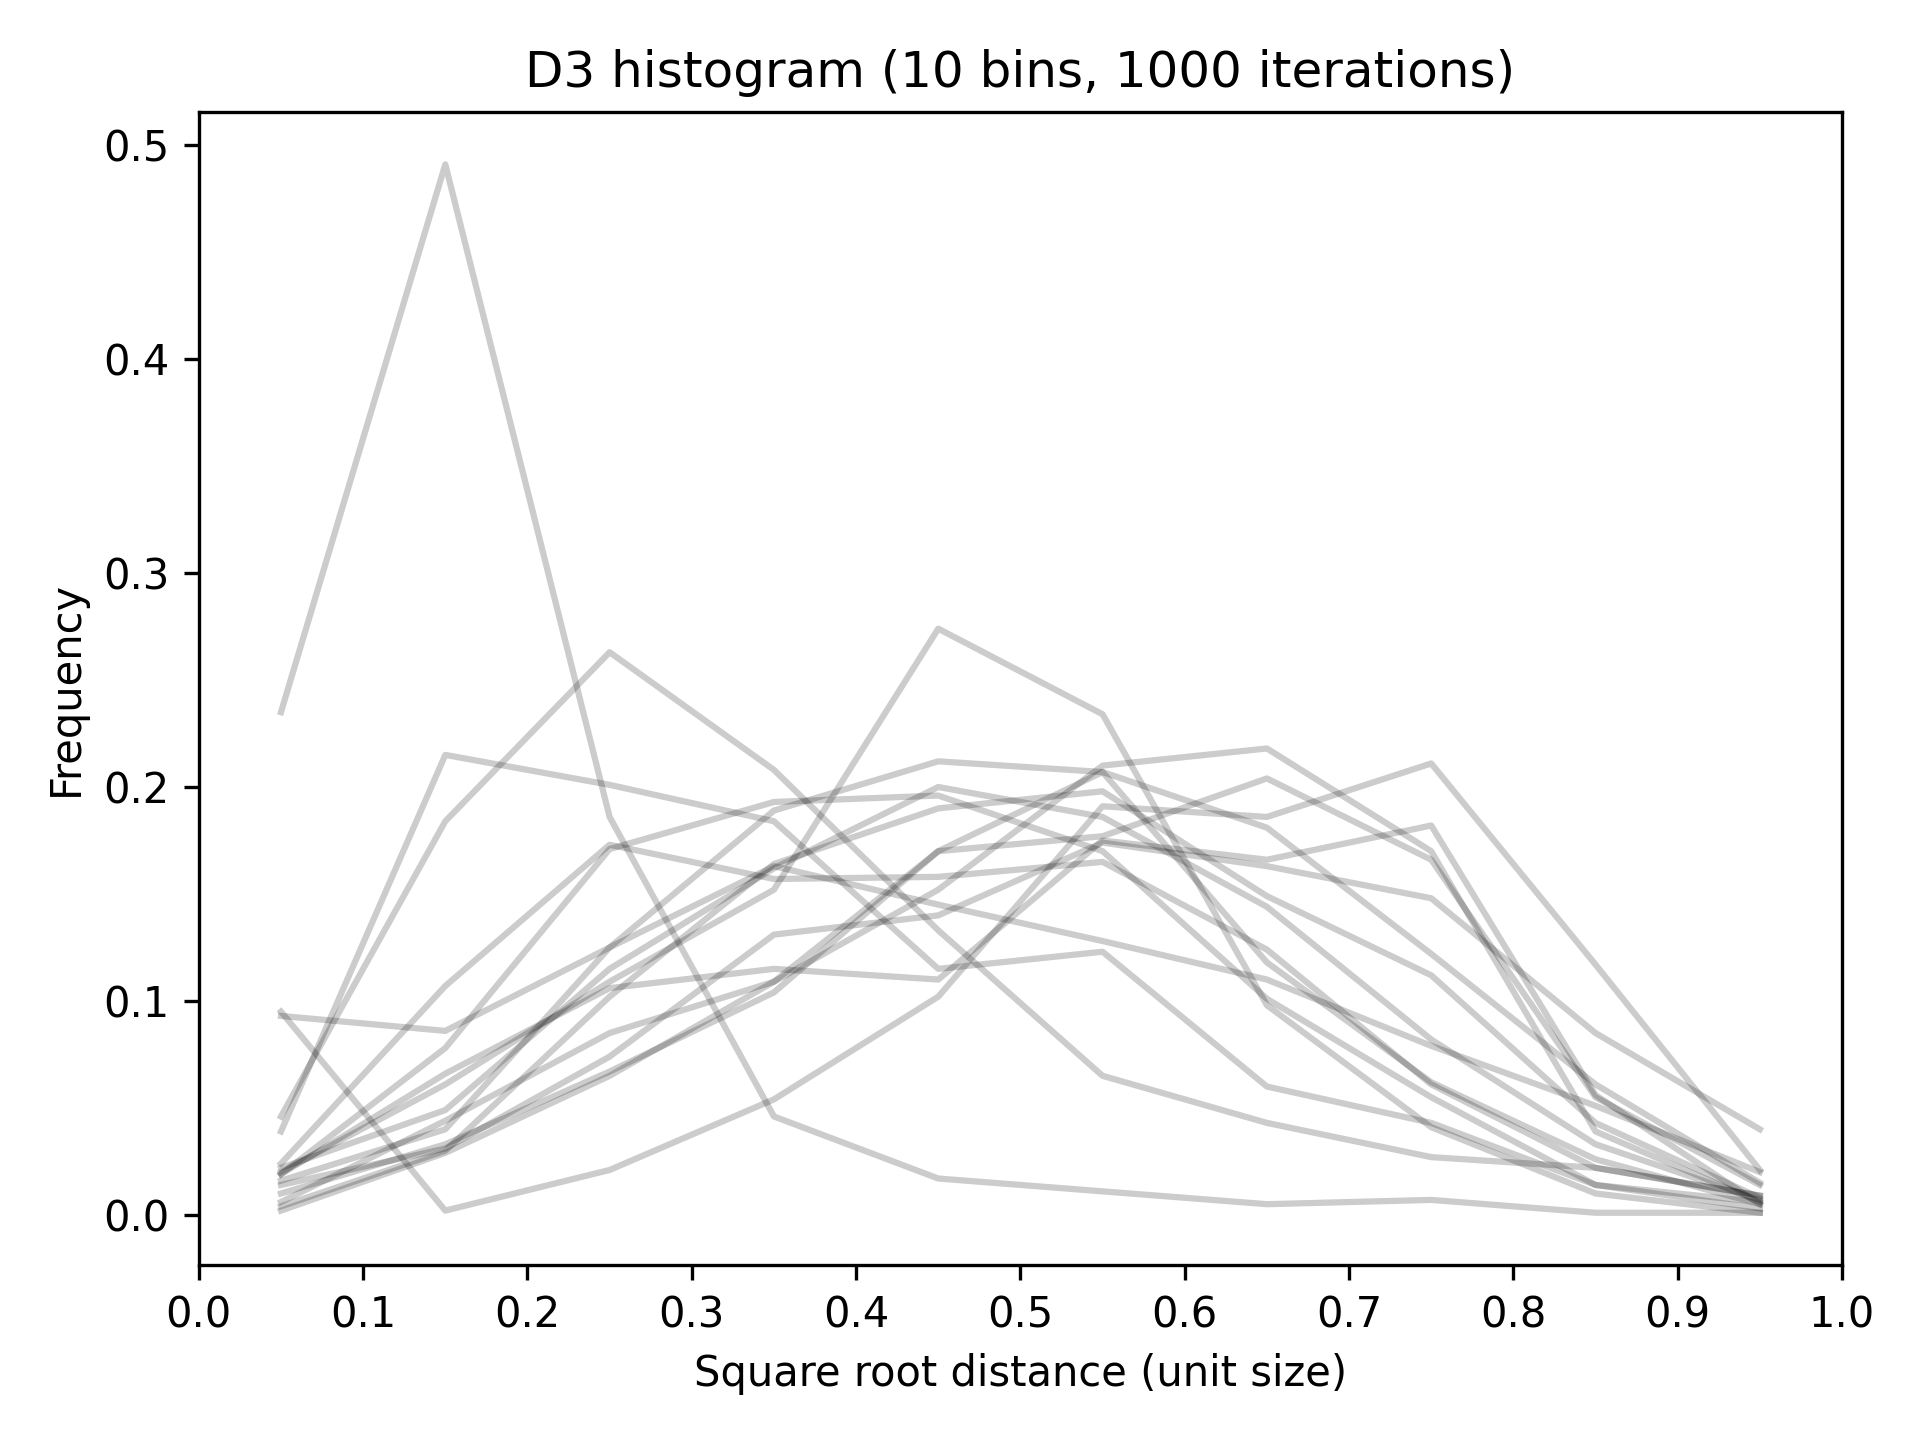
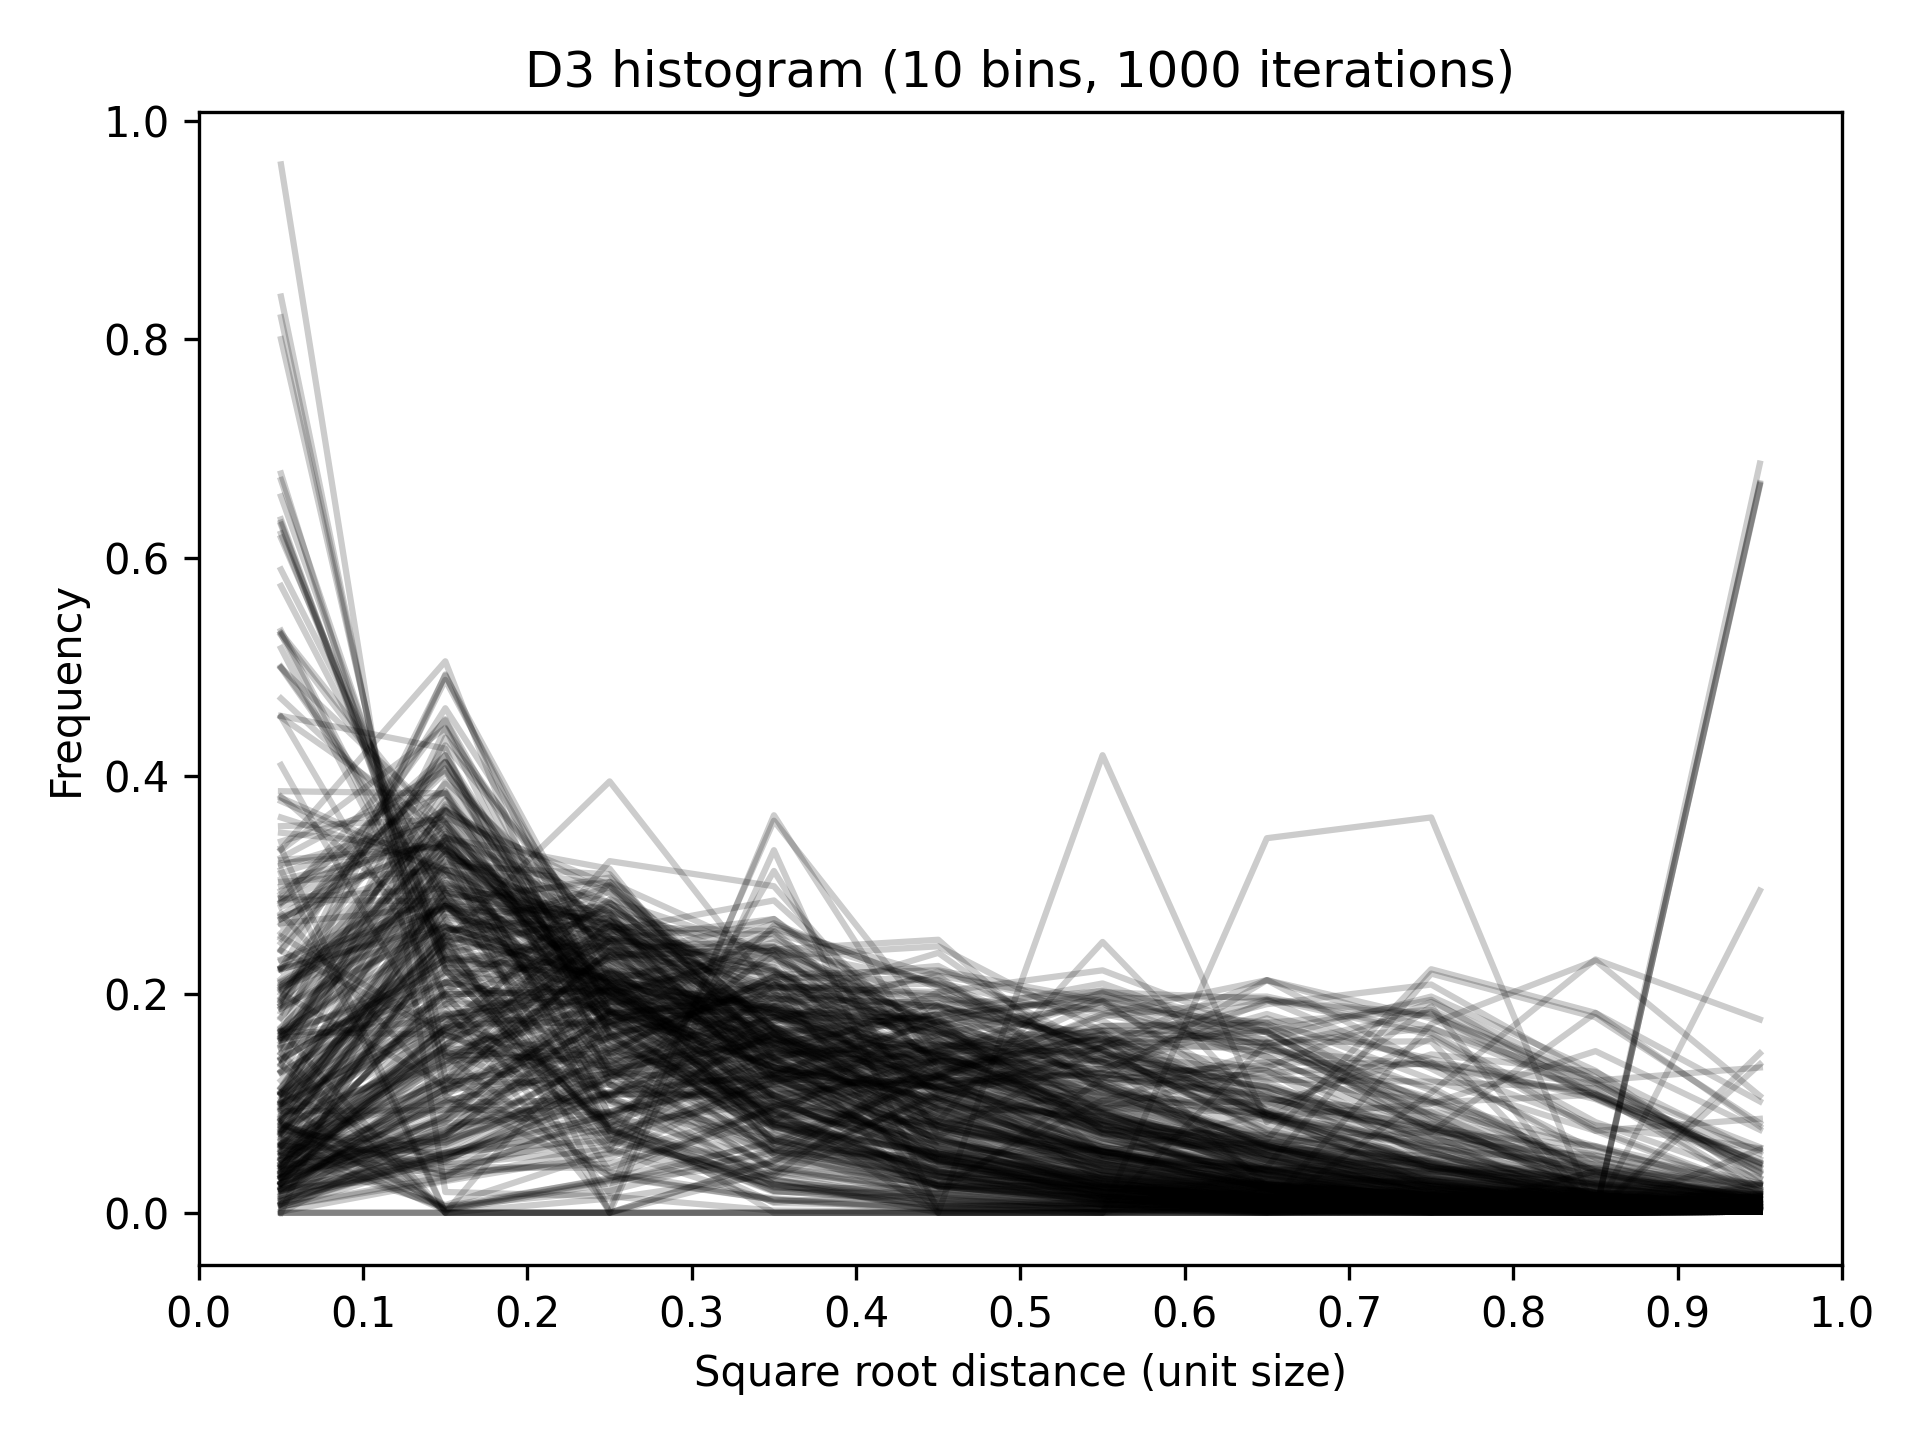
Added grid of hist plots

diff --git a/code/feature_extraction_visualisation.py b/code/feature_extraction_visualisation.py
@@ -1,5 +1,6 @@
 import matplotlib.pyplot as plt
 import numpy as np
+import pandas as pd
 import seaborn as sns
 
 
@@ -23,21 +24,75 @@ def plot_feat_hist(data: np.ndarray, feat: str, x_label: str, x_ticks_label: lis
     plt.show()
 
 
+def plot_hist_grid(fp_data, n_classes: int = 4, n_bins: int = 10, n_iter: int = 1_000) -> None:
+    # Load csv in pandas dataframe
+    df = pd.read_csv(fp_data, delimiter=",")
+
+    # Select the n_classes most popular classes
+    df = df[df["category"].isin(df["category"].value_counts().index[:n_classes])]
+    print(df["category"].value_counts())
+
+    # Create a grid of subplots
+    fig, axes = plt.subplots(nrows=5, ncols=n_classes, figsize=(10, 6), sharex=True, sharey=False)
+
+    # Iterate over all classes in the dataset
+    for i, category in enumerate(df["category"].unique()):
+        # Select the rows in the dataframe that belong to the current class
+        df_class = df[df["category"] == category]
+
+        # Iterate over all features
+        for j, feat in enumerate(["a3", "d1", "d2", "d3", "d4"]):
+            plt.sca(axes[j, i])  # Set current subplot
+            cols = [f"{feat}_{i}" for i in range(n_bins)]  # Column names
+
+            # Plot all linecharts on top of each other
+            x_range = np.arange(n_bins)
+            for k in range(df_class.shape[0]):
+                plt.plot(x_range, df_class[cols].iloc[k], color="black", alpha=0.2)
+
+    # Set x labels
+    for i, (category, value) in enumerate(df["category"].value_counts().items()):
+        plt.sca(axes[-1, i])
+        plt.xlabel(f"{category}\n({value} meshes)")
+
+    # Set y labels
+    for i, feat in enumerate(["A3", "D1", "D2", "D3", "D4"]):
+        plt.sca(axes[i, 0])
+        plt.ylabel(feat, rotation=0, labelpad=20)
+
+    # Disable all ticks
+    for ax in axes.ravel():
+        ax.tick_params(axis="both", which="both", bottom=False, left=False)
+        ax.spines["top"].set_visible(False)
+        ax.spines["right"].set_visible(False)
+        ax.set_xticks([])
+        ax.set_yticks([])
+        ax.set_xlim(0, n_bins)
+
+    plt.tight_layout()
+    plt.savefig(f"./figures/feat_ex/feat_hist_grid.png", dpi=300)
+    plt.show()
+
+
 if __name__ == "__main__":
     # Load data
-    data = np.loadtxt("./csvs/feature_extraction.csv", delimiter=",", skiprows=1, usecols=range(2, 52))
+    fp_data = "./csvs/feature_extraction.csv"
     n_bins = 10
     n_iter = 1_000
+    n_classes = 4
 
+    data = np.loadtxt(fp_data, delimiter=",", skiprows=1, usecols=range(2, 52))
     a3 = data[:, :n_bins]
     d1 = data[:, n_bins:2 * n_bins]
     d2 = data[:, 2 * n_bins:3 * n_bins]
     d3 = data[:, 3 * n_bins:4 * n_bins]
     d4 = data[:, 4 * n_bins:]
 
-    plot_feat_hist(a3, "A3", "Angle (degrees)", range(0, 181, 18), n_bins=n_bins, n_iter=n_iter)
-    # Round to 1 decimal place for floating point errors like 0.300004
-    plot_feat_hist(d1, "D1", "Distance (unit size)", np.arange(0, 1.1, 0.1).round(1), n_bins=n_bins, n_iter=n_iter)
-    plot_feat_hist(d2, "D2", "Distance (unit size)", np.arange(0, 1.1, 0.1).round(1), n_bins=n_bins, n_iter=n_iter)
-    plot_feat_hist(d3, "D3", "Square root distance (unit size)", np.arange(0, 1.1, 0.1).round(1), n_bins=n_bins, n_iter=n_iter)
-    plot_feat_hist(d4, "D4", "Cube root distance (unit size)", np.arange(0, 1.1, 0.1).round(1), n_bins=n_bins, n_iter=n_iter)
+    # plot_feat_hist(a3, "A3", "Angle (degrees)", range(0, 181, 18), n_bins=n_bins, n_iter=n_iter)
+    # # Round to 1 decimal place for floating point errors like 0.300004
+    # plot_feat_hist(d1, "D1", "Distance (unit size)", np.arange(0, 1.1, 0.1).round(1), n_bins=n_bins, n_iter=n_iter)
+    # plot_feat_hist(d2, "D2", "Distance (unit size)", np.arange(0, 1.1, 0.1).round(1), n_bins=n_bins, n_iter=n_iter)
+    # plot_feat_hist(d3, "D3", "Square root distance (unit size)", np.arange(0, 1.1, 0.1).round(1), n_bins=n_bins, n_iter=n_iter)
+    # plot_feat_hist(d4, "D4", "Cube root distance (unit size)", np.arange(0, 1.1, 0.1).round(1), n_bins=n_bins, n_iter=n_iter)
+
+    plot_hist_grid(fp_data, n_classes, n_bins=n_bins, n_iter=n_iter)
